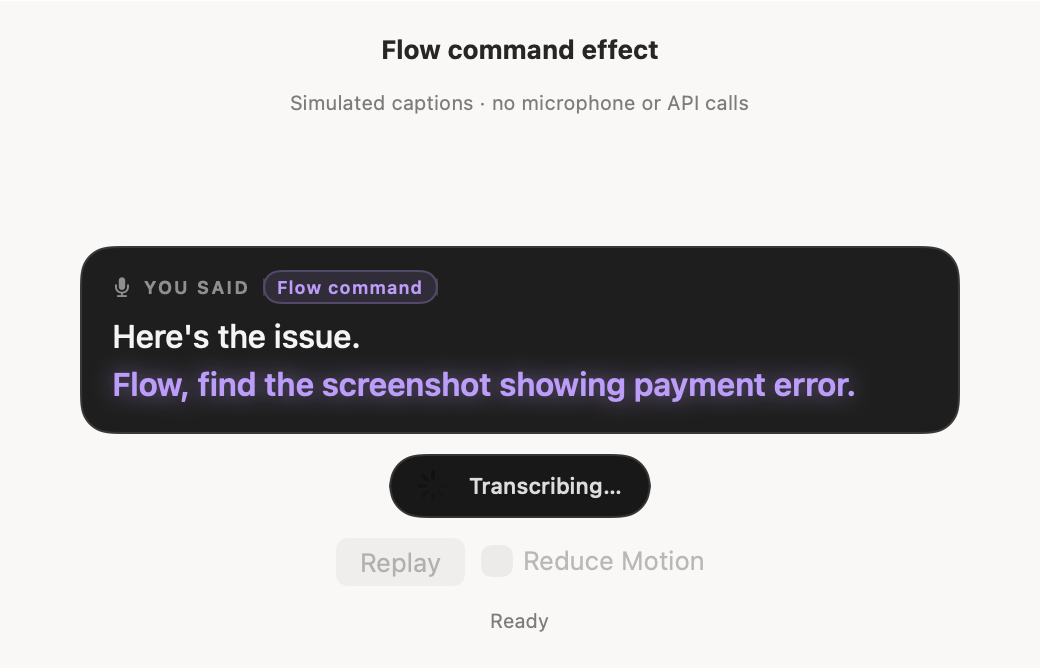
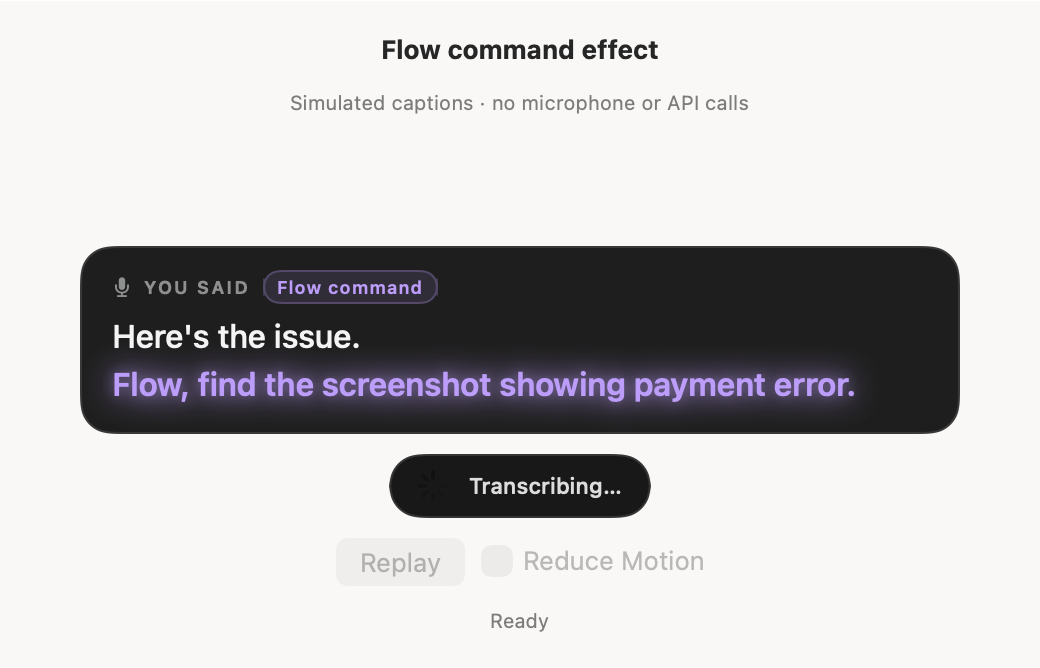
Strengthen the finishing purple glow with a brighter halo

Changed region(s): [[0.0923, 0.5389, 0.8308, 0.6287]]

diff --git a/Sources/FlowApp/LiquidCommandText.swift b/Sources/FlowApp/LiquidCommandText.swift
@@ -77,8 +77,9 @@ struct LiquidCommandText: View {
                                 }
                             }
                         }
-                        .shadow(color: FlowCommandBadge.ink.opacity(0.18 + (rippling ? 0.30 : 0) + 0.45 * settleGlow),
-                                radius: 2 + (rippling ? 3 : 0) + 4.5 * settleGlow)
+                        .shadow(color: FlowCommandBadge.ink.opacity(0.18 + (rippling ? 0.30 : 0) + 0.70 * settleGlow),
+                                radius: 2 + (rippling ? 3 : 0) + 7 * settleGlow)
+                        .shadow(color: FlowCommandBadge.ink.opacity(0.50 * settleGlow), radius: 3)
                     }
                     .allowsHitTesting(false).accessibilityHidden(true)
                 }

diff --git a/docs/attachment-resume.md b/docs/attachment-resume.md
@@ -265,3 +265,12 @@ finishing glow separately before the fully settled frame.
 The build and all eight native preview checks passed. The glow and settled
 frames were visually compared, and the refreshed Replay preview remains open.
 No model API calls, microphone recording or Messages writes were involved.
+
+## Stronger finishing glow (October 18)
+
+The user requested a stronger purple glow. The finishing pulse now has a brighter,
+broader halo plus a tighter inner glow around the letters. The single 700 ms
+ripple and 400 ms finish retain their timing; the extra glow is confined to the
+finish and remains disabled with Reduce Motion.
+The build and all eight native preview checks passed. The finishing frame was
+visually reviewed, and the updated Replay preview remains open.

diff --git a/docs/command-ripple.md b/docs/command-ripple.md
@@ -12,7 +12,8 @@ During recording the command has a soft purple glow. When recording ends, a
 single 700 ms highlight and one smooth crest sweep from left to right,
 with up to 2 points of letter displacement. A Gaussian crest follows the highlight
 without oscillation or trailing ripples, with a gentle fade at either end.
-Once the crest has settled, a soft purple glow blooms once over 400 ms and
+Once the crest has settled, a brighter purple glow with a broad halo and a tighter inner glow blooms once
+over 400 ms and
 fades to the static highlight. The letters stay still during this finish.
 The full timing is shared by rendering and animation cleanup.
 There is no replay on each partial recognition update. The glyph alpha image is
